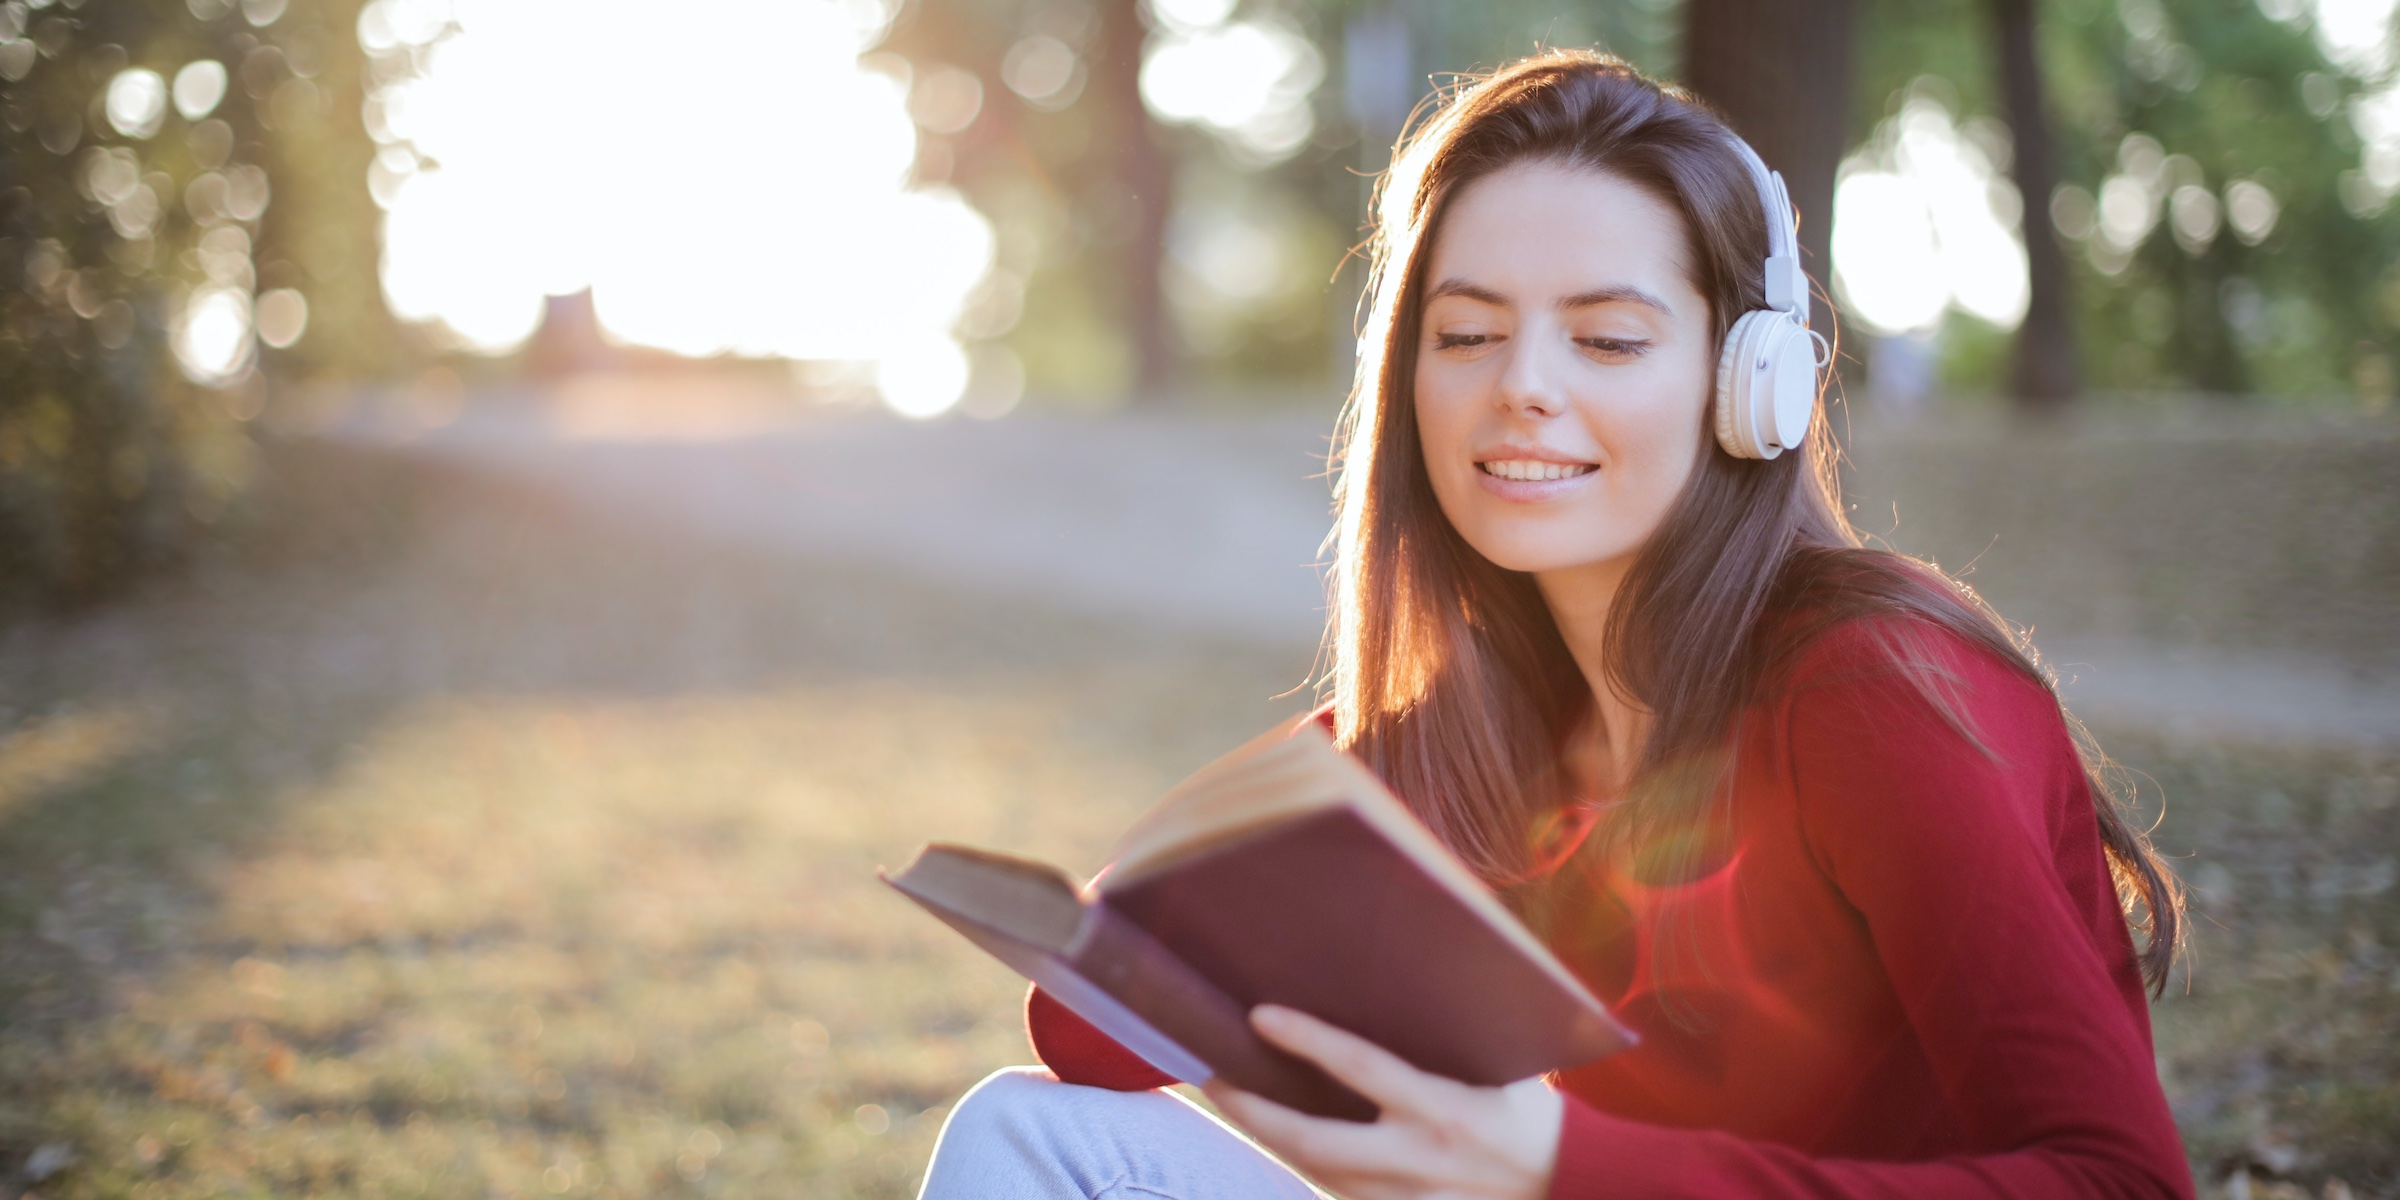
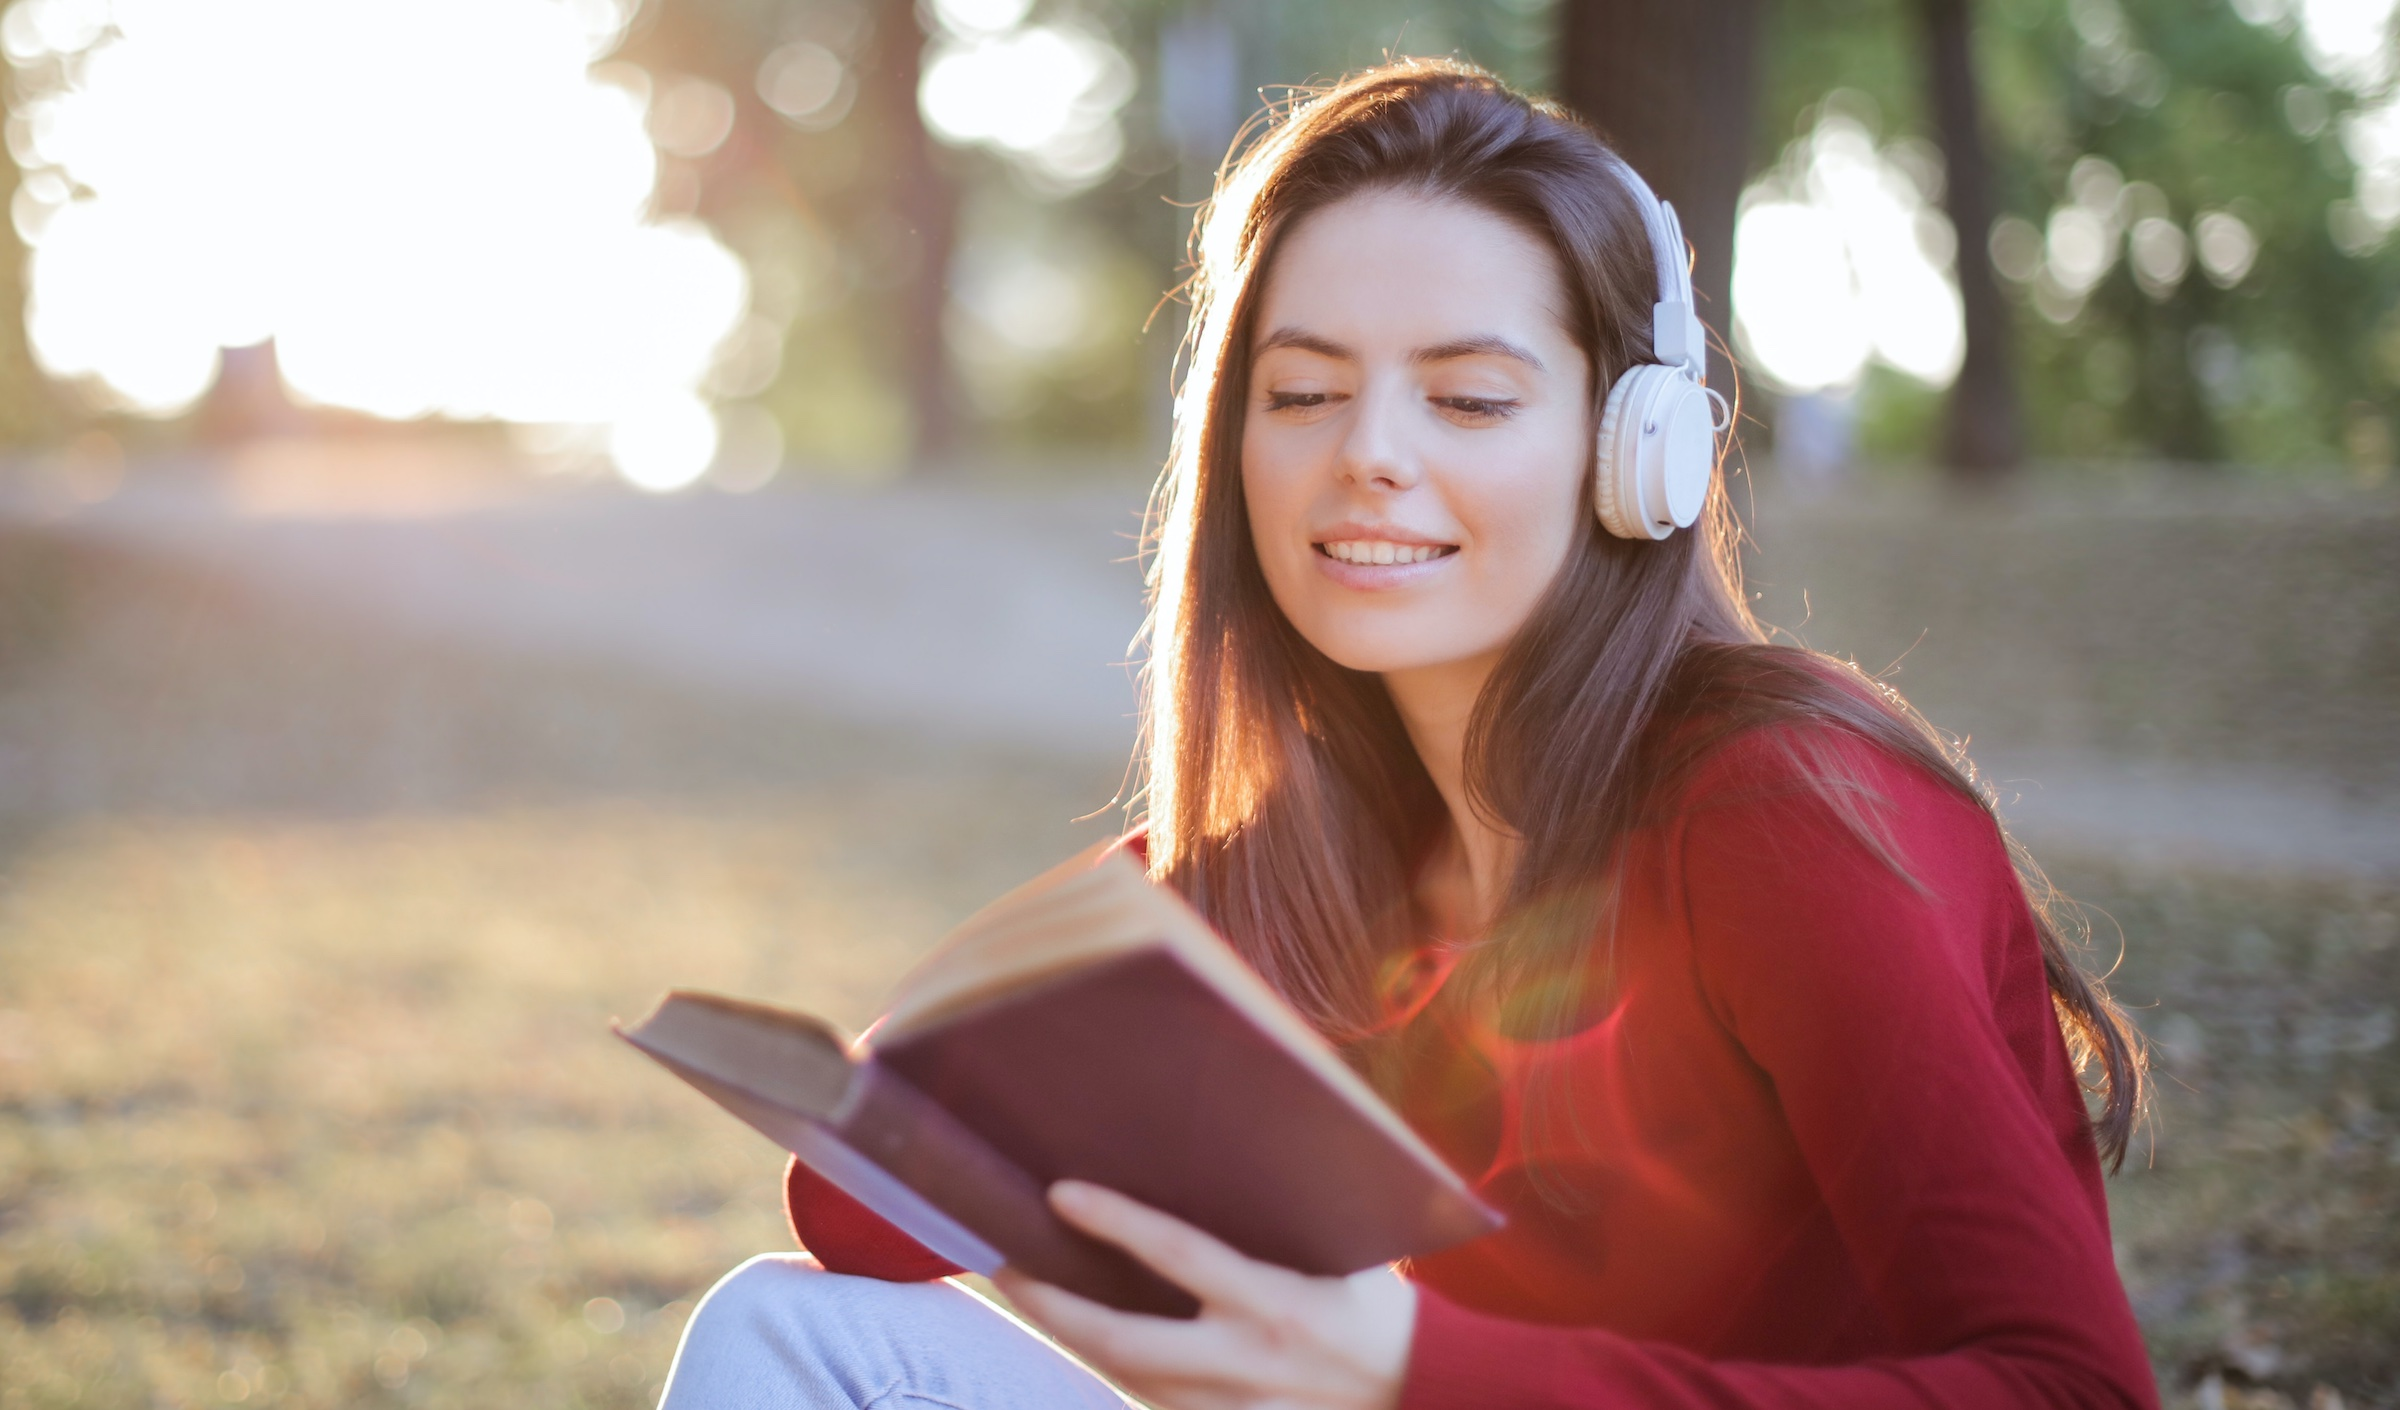
Recrop hero image

diff --git a/src/containers/about/purpose.tsx b/src/containers/about/purpose.tsx
@@ -33,7 +33,7 @@ export default function Purpose(): JSX.Element {
 			</Heading1>
 			<div className={clsx(sharedStyles.image, sharedStyles.imageLabeled)}>
 				<Image
-					src="/img/hero-av.jpg"
+					src="/img/hero-av-full.jpg"
 					layout="fill"
 					objectFit="cover"
 					priority

diff --git a/src/containers/about/story.tsx b/src/containers/about/story.tsx
@@ -24,7 +24,7 @@ export default function Story(): JSX.Element {
 			</Heading1>
 			<div className={sharedStyles.image}>
 				<Image
-					src="/img/hero-av.jpg"
+					src="/img/hero-av-full.jpg"
 					layout="fill"
 					objectFit="cover"
 					priority
